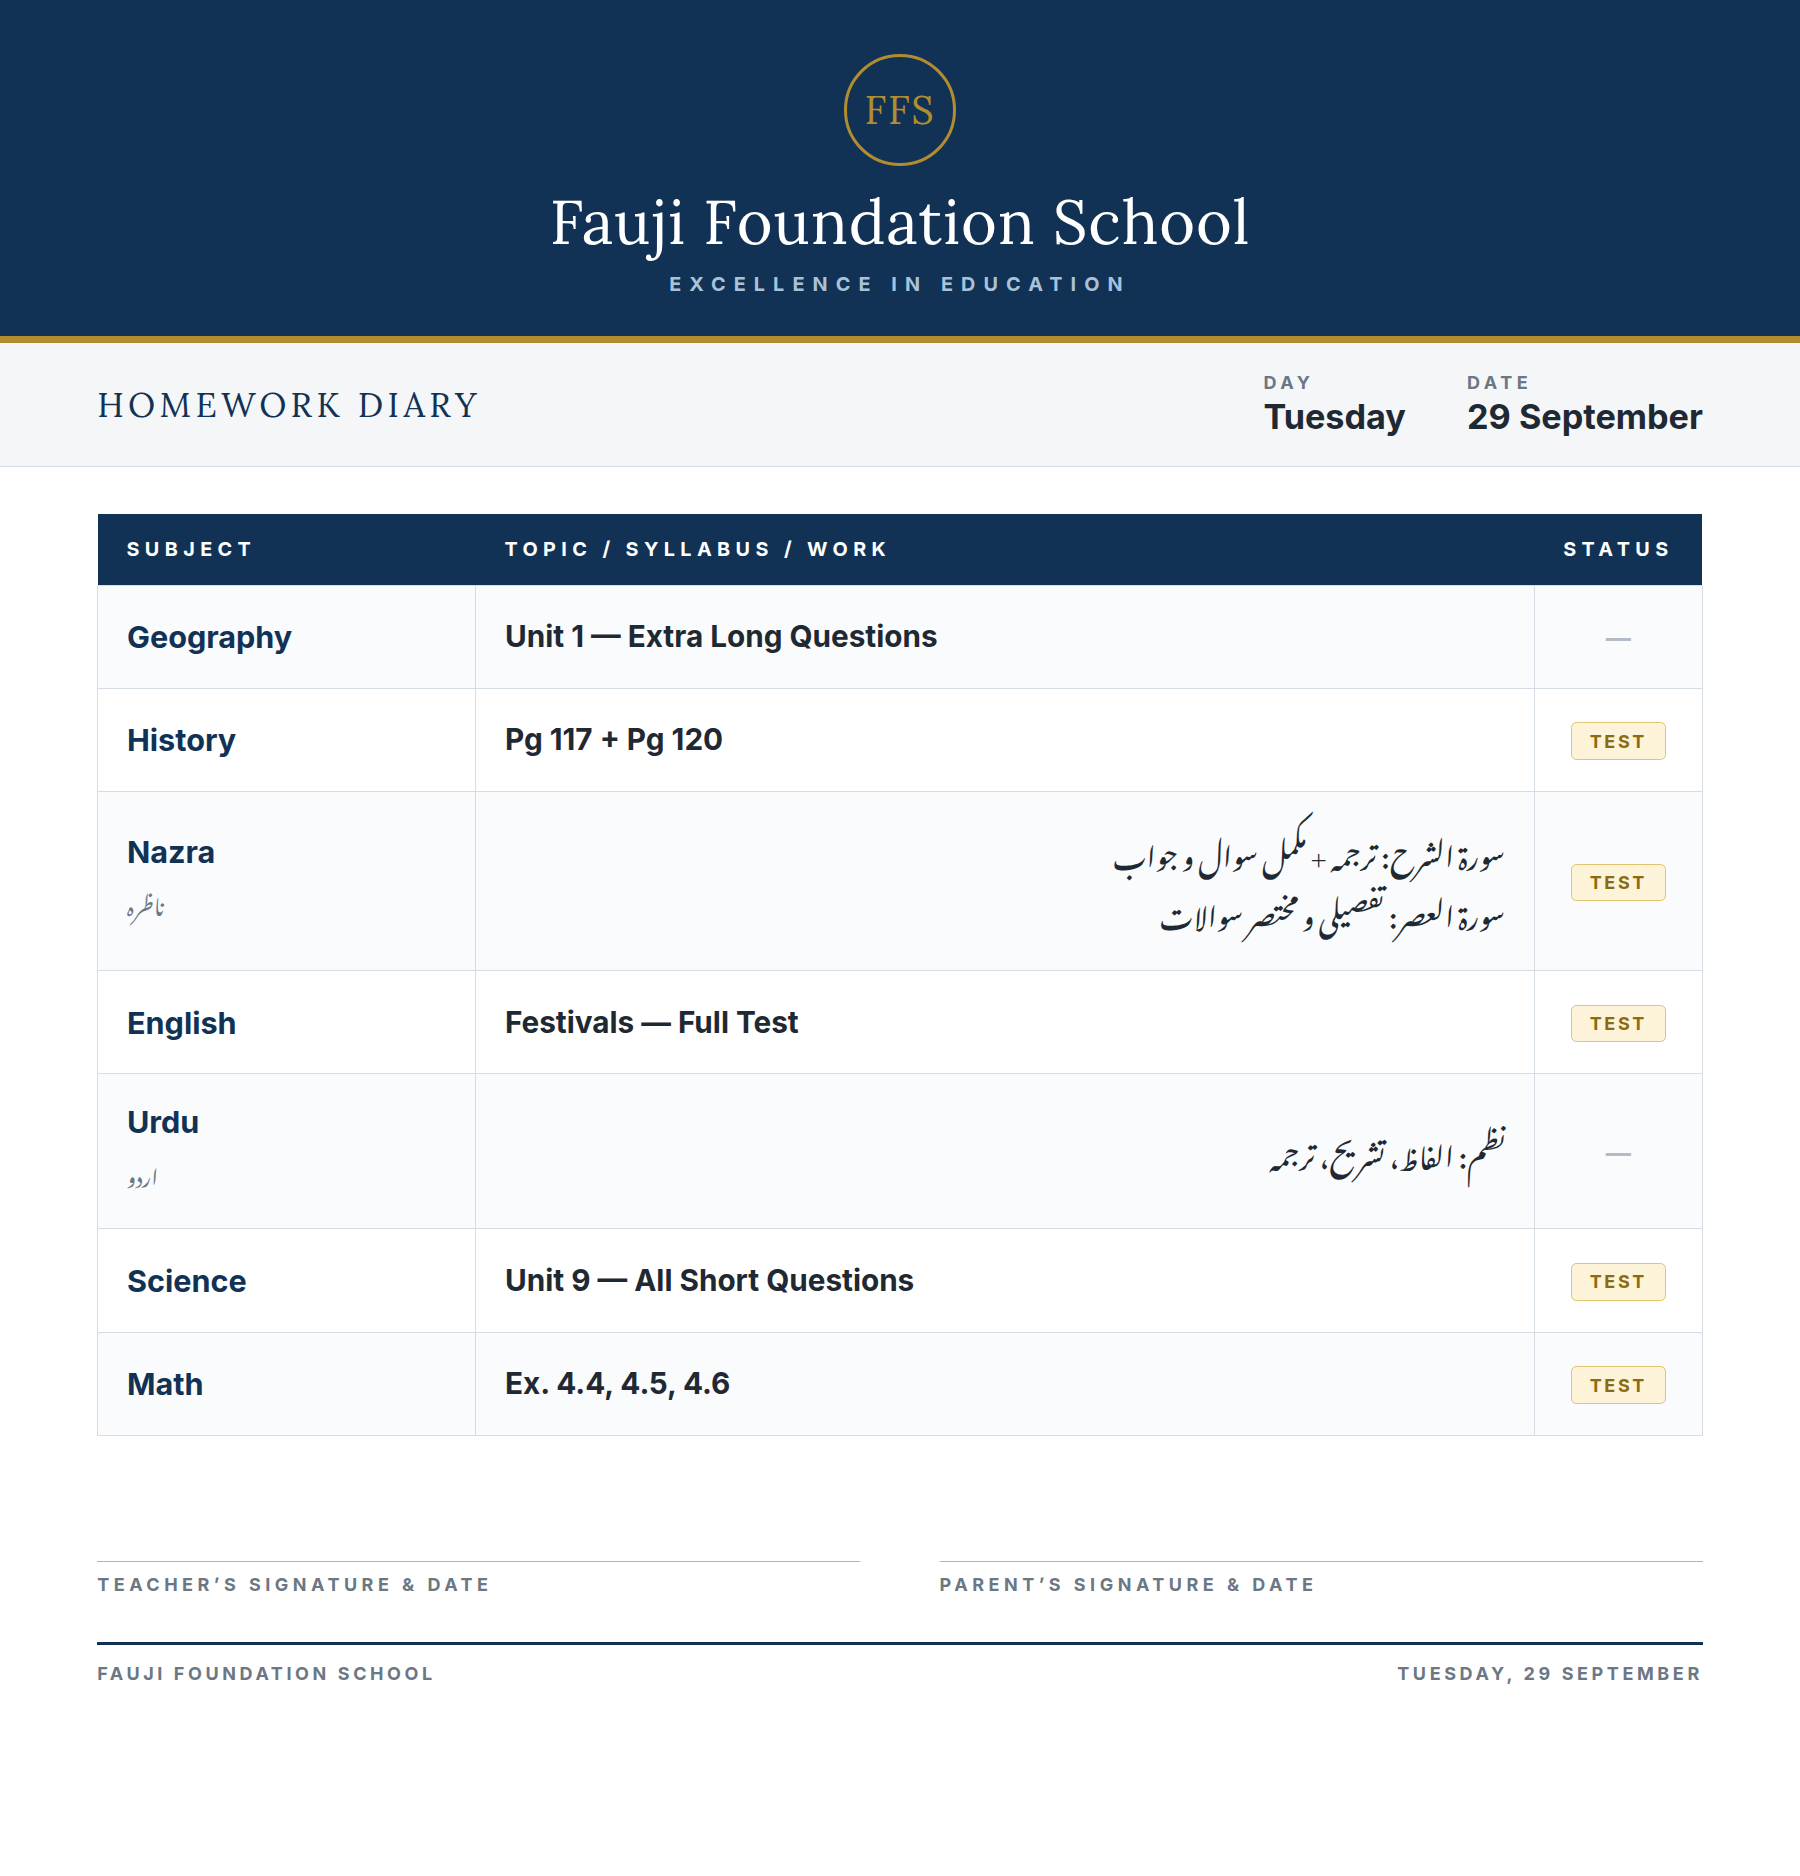
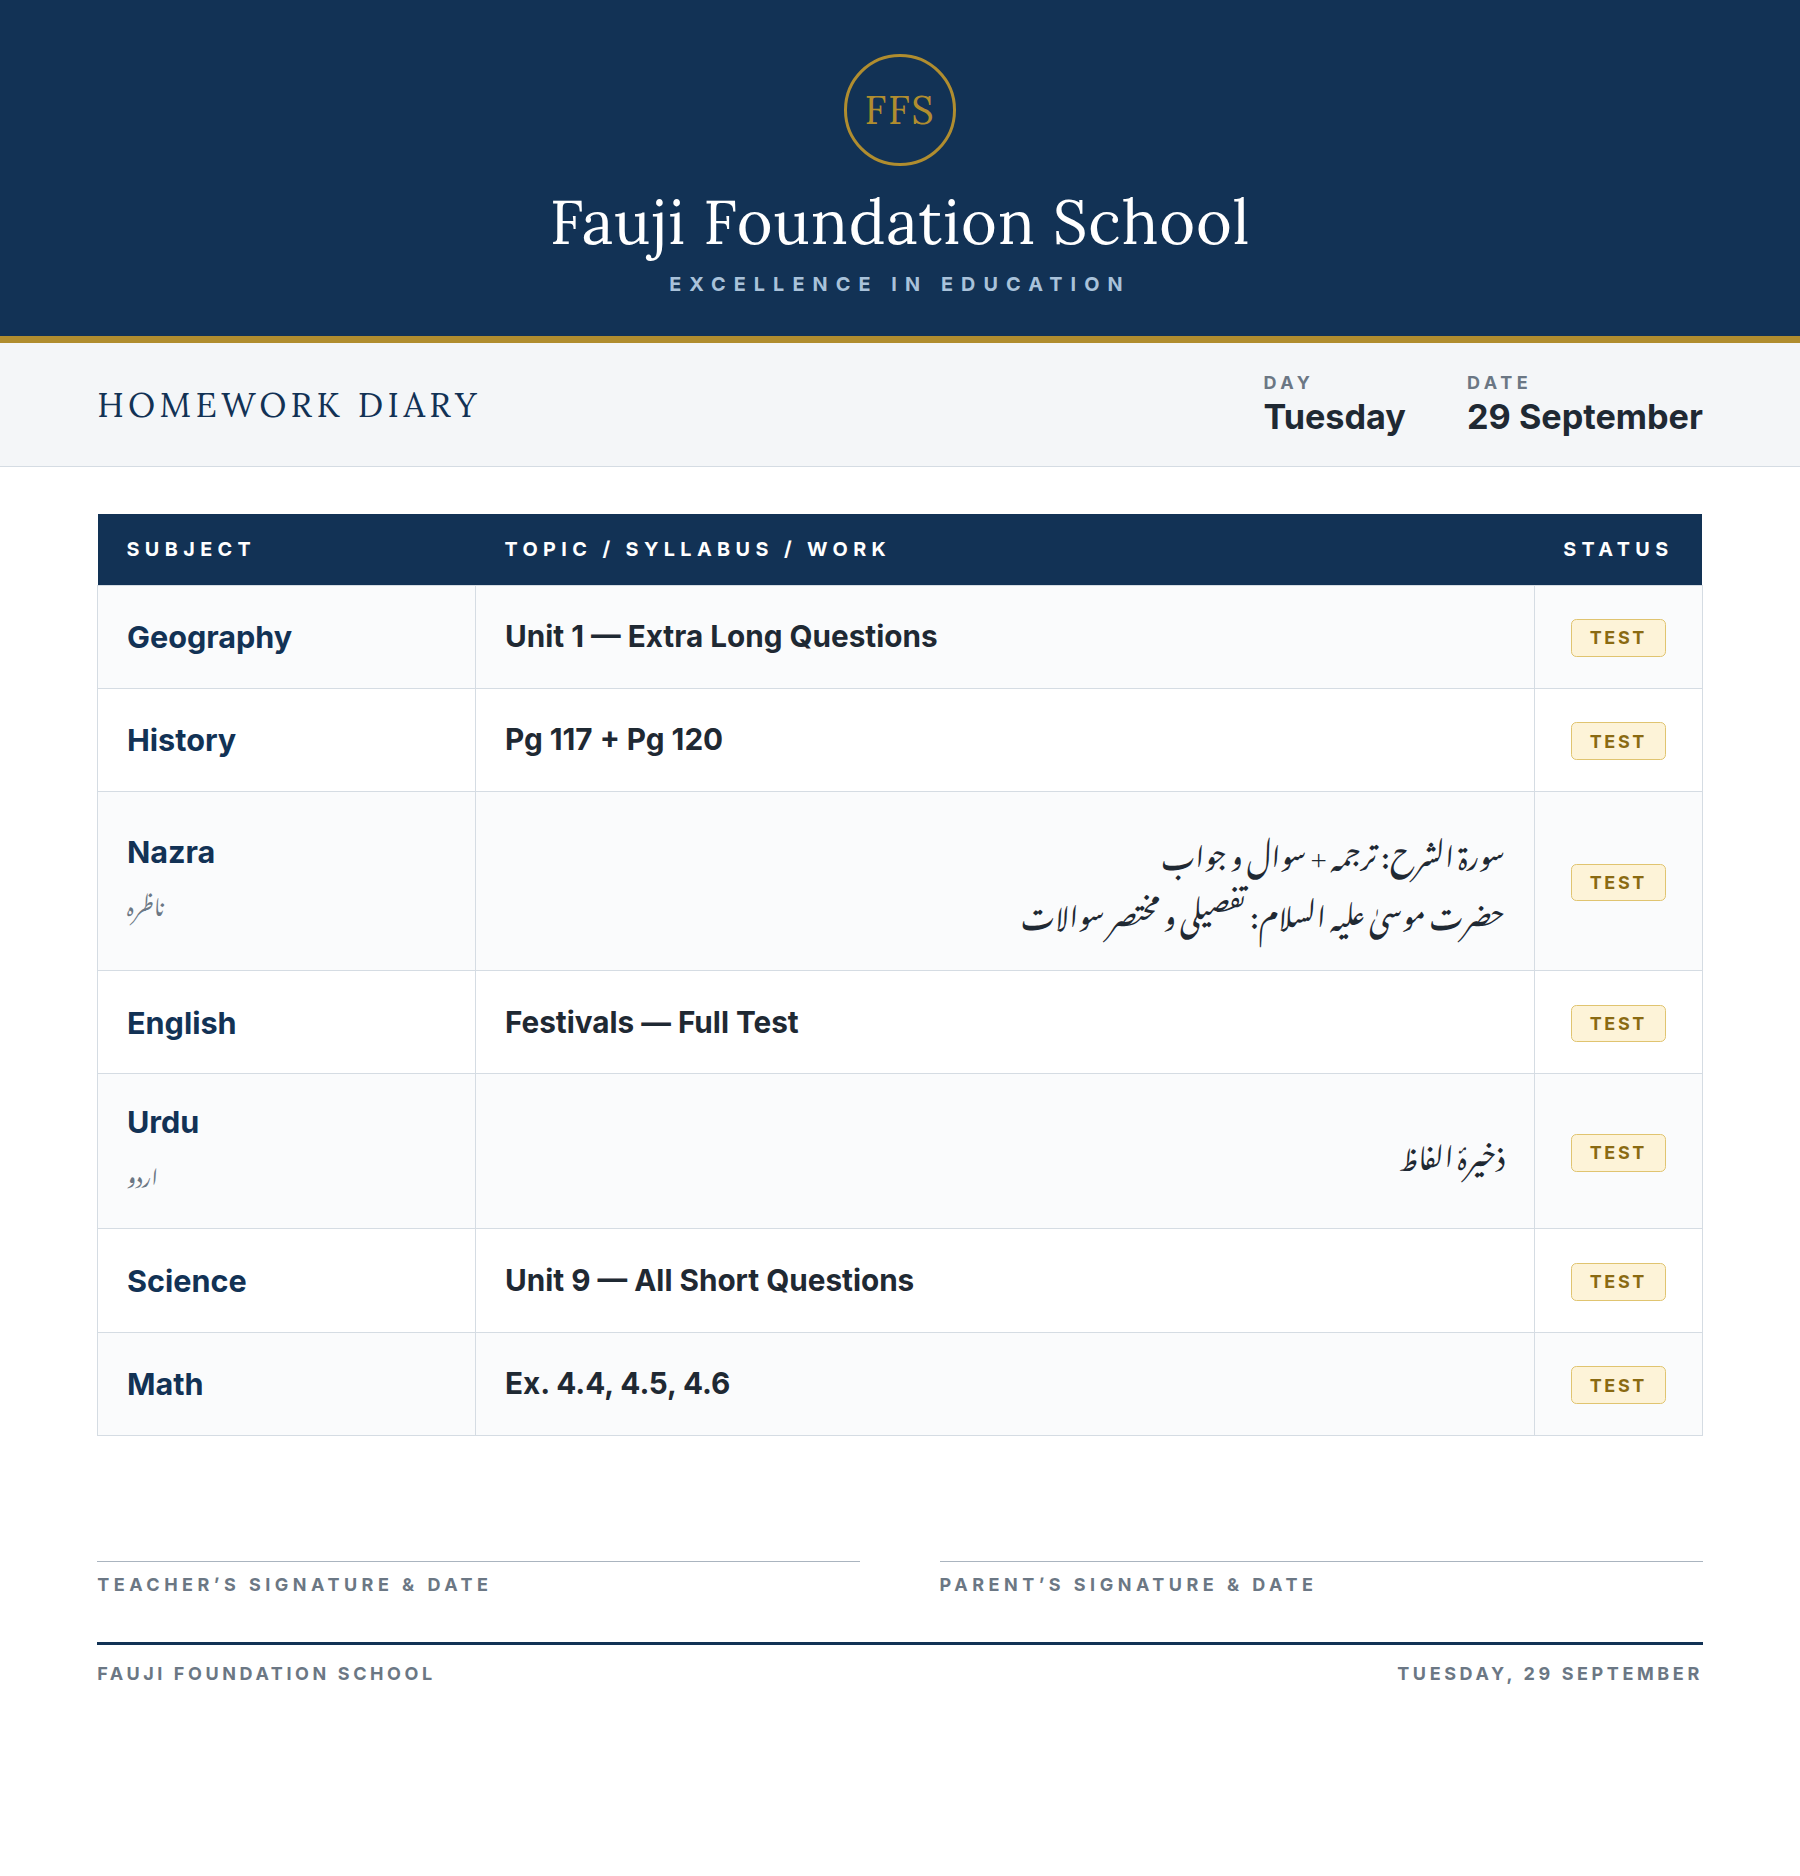
Correct Nazra and Urdu entries on 29 September diary
Nazra now reads Surah Ash-Sharh (translation + Q/A) and Hazrat Musa AS
(long + short questions). Urdu is a vocabulary test. All seven subjects
carry a test.

Claude-Session: https://claude.ai/code/session_012MwDs2Pq4k9B92QEmaxRzU

diff --git a/diary-29-september.html b/diary-29-september.html
@@ -81,11 +81,11 @@
   <div class="wrap">
     <table>
       <tr><th>Subject</th><th>Topic / Syllabus / Work</th><th class="c">Status</th></tr>
-      <tr><td class="sub">Geography</td><td class="wk">Unit 1 &mdash; Extra Long Questions</td><td class="tc"><span class="dash">&mdash;</span></td></tr>
+      <tr><td class="sub">Geography</td><td class="wk">Unit 1 &mdash; Extra Long Questions</td><td class="tc"><span class="tag">TEST</span></td></tr>
       <tr><td class="sub">History</td><td class="wk">Pg 117 + Pg 120</td><td class="tc"><span class="tag">TEST</span></td></tr>
-      <tr><td class="sub">Nazra<em>ناظرہ</em></td><td class="wk ur">سورۃ الشرح: ترجمہ + مکمل سوال و جواب<br>سورۃ العصر: تفصیلی و مختصر سوالات</td><td class="tc"><span class="tag">TEST</span></td></tr>
+      <tr><td class="sub">Nazra<em>ناظرہ</em></td><td class="wk ur">سورۃ الشرح: ترجمہ + سوال و جواب<br>حضرت موسیٰ علیہ السلام: تفصیلی و مختصر سوالات</td><td class="tc"><span class="tag">TEST</span></td></tr>
       <tr><td class="sub">English</td><td class="wk">Festivals &mdash; Full Test</td><td class="tc"><span class="tag">TEST</span></td></tr>
-      <tr><td class="sub">Urdu<em>اردو</em></td><td class="wk ur">نظم: الفاظ، تشریح، ترجمہ</td><td class="tc"><span class="dash">&mdash;</span></td></tr>
+      <tr><td class="sub">Urdu<em>اردو</em></td><td class="wk ur">ذخیرۂ الفاظ</td><td class="tc"><span class="tag">TEST</span></td></tr>
       <tr><td class="sub">Science</td><td class="wk">Unit 9 &mdash; All Short Questions</td><td class="tc"><span class="tag">TEST</span></td></tr>
       <tr><td class="sub">Math</td><td class="wk">Ex. 4.4, 4.5, 4.6</td><td class="tc"><span class="tag">TEST</span></td></tr>
     </table>
